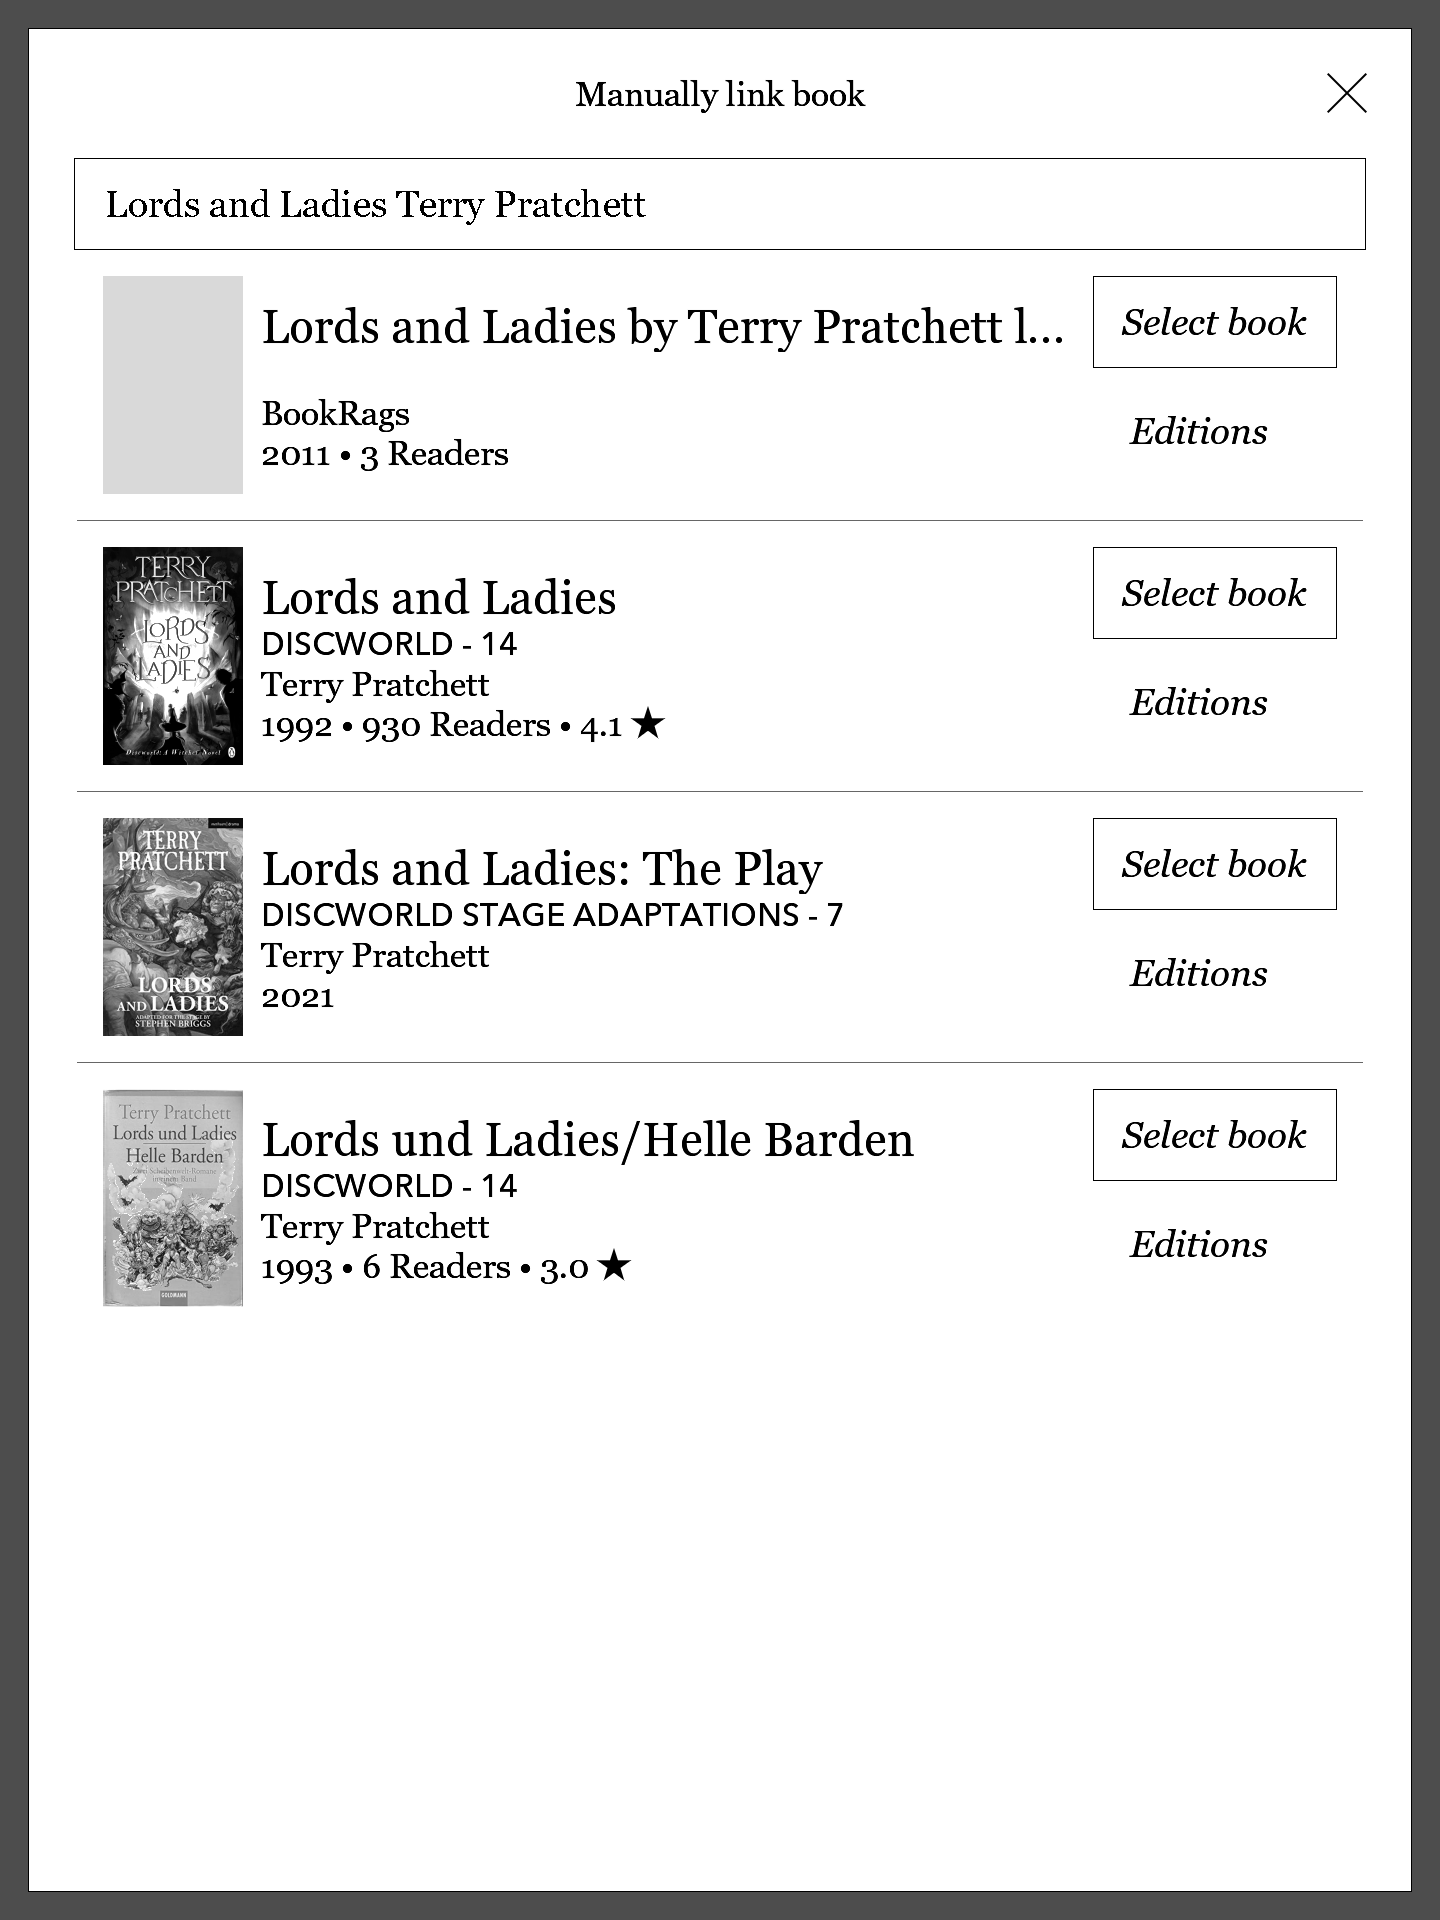
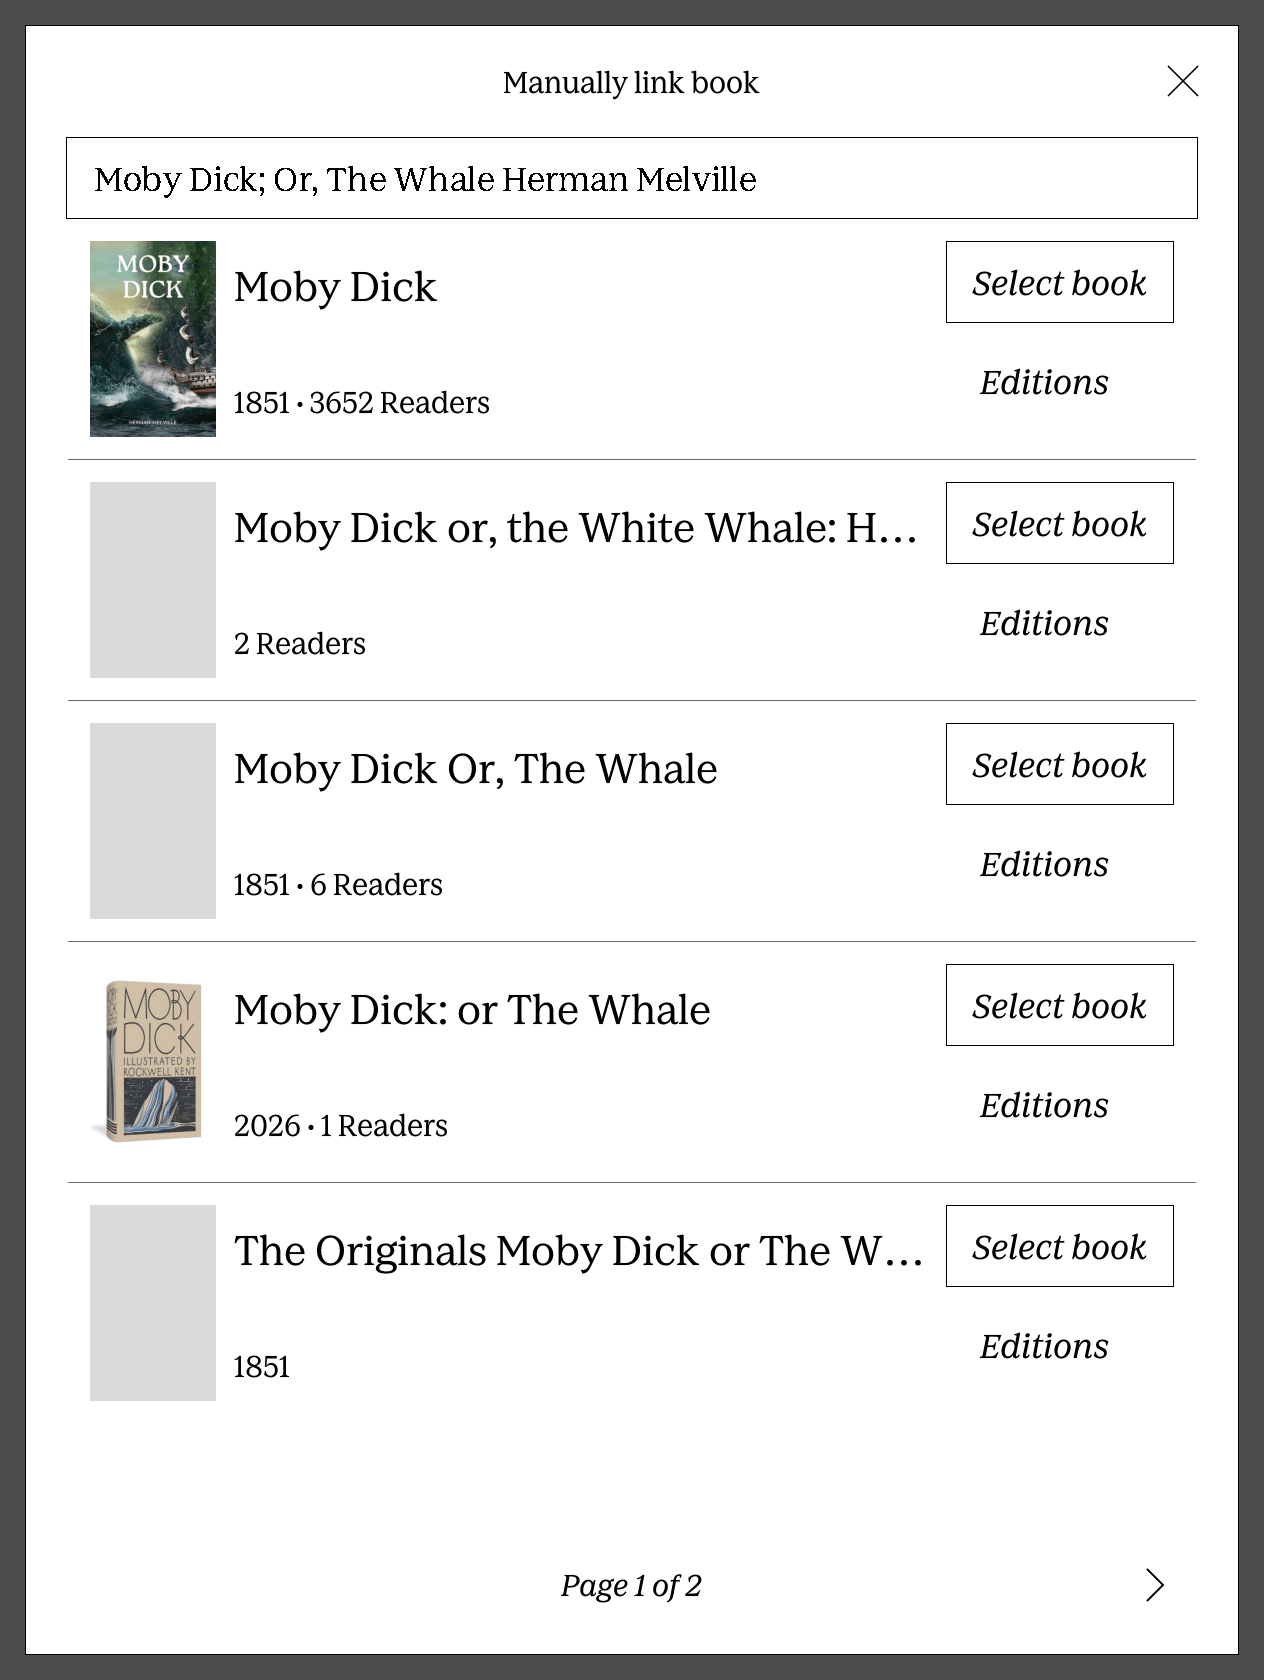
Replace upstream screenshots with captures from a Kobo in dual mode
The screenshots folder held images from the Hardcover-only upstream.
Replace them with captures taken on a real Kobo running build 33f2e66 in
dual mode, drop the ones for screens this fork no longer shows, and
place each capture in the README section it illustrates: sign-in for
both services, the plugin menu, manual linking and both Settings pages.

Amp-Thread-ID: https://ampcode.com/threads/T-01a1c6e8-c611-708b-bc97-4b782d53ba95

diff --git a/README.md b/README.md
@@ -142,6 +142,10 @@ existing `access_token`, `refresh_token` and `token_expires_at` lines in
    code), and authorize access.
 4. Tap **Continue** on the Kobo.
 
+<img src="screenshots/menu-signed-out.png" alt="Plugin menu before signing in, with Sign in to Hardcover.app and Sign in to Readwise Books" width="320"> <img src="screenshots/signin-hardcover.png" alt="Hardcover sign-in screen with a QR code and a pairing code" width="320">
+
+*Left: the menu in `dual` mode before signing in. Right: the Hardcover sign-in screen.*
+
 ## Step 5 — Connect Readwise Books
 
 *Skip this step in `hardcover` mode.*
@@ -149,6 +153,8 @@ existing `access_token`, `refresh_token` and `token_expires_at` lines in
 Readwise does not have a QR code sign-in yet: you copy a personal token into
 `config.ini` over USB. (In dual mode, the **Sign in to Readwise Books** menu
 entry reminds you of these steps.)
+
+<img src="screenshots/signin-readwise.png" alt="Readwise Books sign-in screen listing the personal token steps" width="320">
 
 1. On your computer, sign in to Readwise and open
    <https://readwise.io/access_token>. Copy your **personal token**.
@@ -208,8 +214,7 @@ the plugin icon **at the top right**. Menu labels are in English.
 
 <img src="screenshots/menu.png" alt="Plugin menu in the Kobo reading toolbar" width="320">
 
-*Screenshot from the original Hardcover-only project. In dual mode, Readwise
-entries are added at the bottom of this menu.*
+*The menu in `dual` mode, with both services signed in.*
 
 ### Which menu entry affects which service?
 
@@ -273,6 +278,10 @@ Readwise-only mode.
 **Hardcover:** choose **Manually link book**, then search for and select the book
 or edition. In dual mode this never replaces an existing Readwise link.
 
+<img src="screenshots/linking.png" alt="Manually link book: Hardcover search results with Select book and Editions buttons" width="320">
+
+*Hardcover search results. **Editions** picks a specific edition.*
+
 **Readwise:** the plugin finds the book by ISBN/ASIN, or by title and author if
 there is no ISBN. If it picks the wrong one:
 
@@ -304,6 +313,10 @@ separately.
 
 All keys go in `.adds/NickelHardcover/config.ini`. The plugin's **Settings**
 screen changes most of them for you.
+
+<img src="screenshots/settings.png" alt="Settings page 1: general options, Hardcover account and journal options, Readwise Books token" width="320"> <img src="screenshots/settings-auto-sync.png" alt="Settings page 2: auto-sync triggers and advanced logging options" width="320">
+
+*The Settings screen in `dual` mode: accounts on page 1, auto-sync on page 2.*
 
 | Key | Values | Meaning |
 | --- | --- | --- |
@@ -394,9 +407,8 @@ and to pgaskin for [NickelHook](https://github.com/pgaskin/NickelHook) and
 [NickelTC](https://github.com/pgaskin/NickelTC). The project is distributed under the
 [MIT license](LICENSE), with the original copyright preserved.
 
-The images in `screenshots/` come from the original Hardcover project and do not
-show the Readwise integration. Build instructions, tests, architecture and technical
-details are in [AGENTS.md](AGENTS.md).
+Build instructions, tests, architecture and technical details are in
+[AGENTS.md](AGENTS.md).
 
 ## TODO
 

diff --git a/AGENTS.md b/AGENTS.md
@@ -21,7 +21,8 @@ sur l'installation et l'utilisation, avec les avertissements essentiels visibles
   ni recherche globale de catalogue, ni statut « en pause ». Ne pas réactiver
   ces fonctions en mode Readwise sans support documenté.
 - Le firmware Kobo 5.x n'est pas pris en charge. Les captures de `screenshots/`
-  sont celles de l'amont Hardcover, pas des preuves de rendu Readwise.
+  viennent d'une vraie Kobo en mode `dual` (build `33f2e66`) ; les refaire si
+  l'interface change.
 
 ## Organisation du code
 
